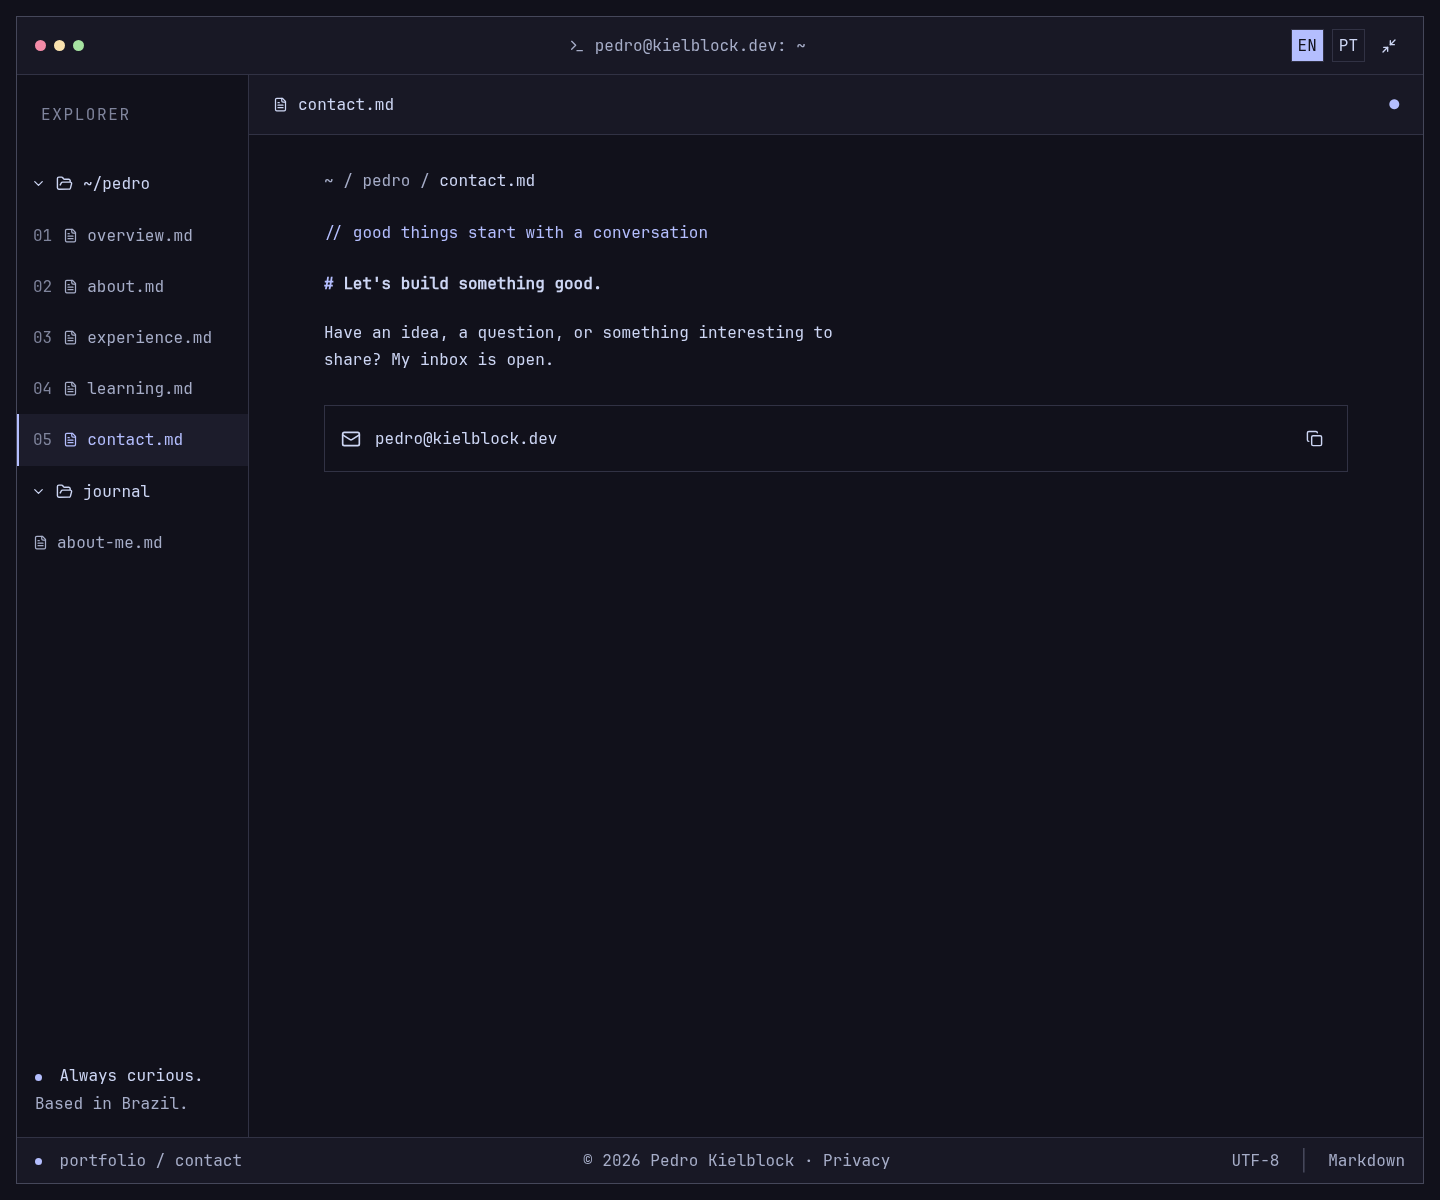
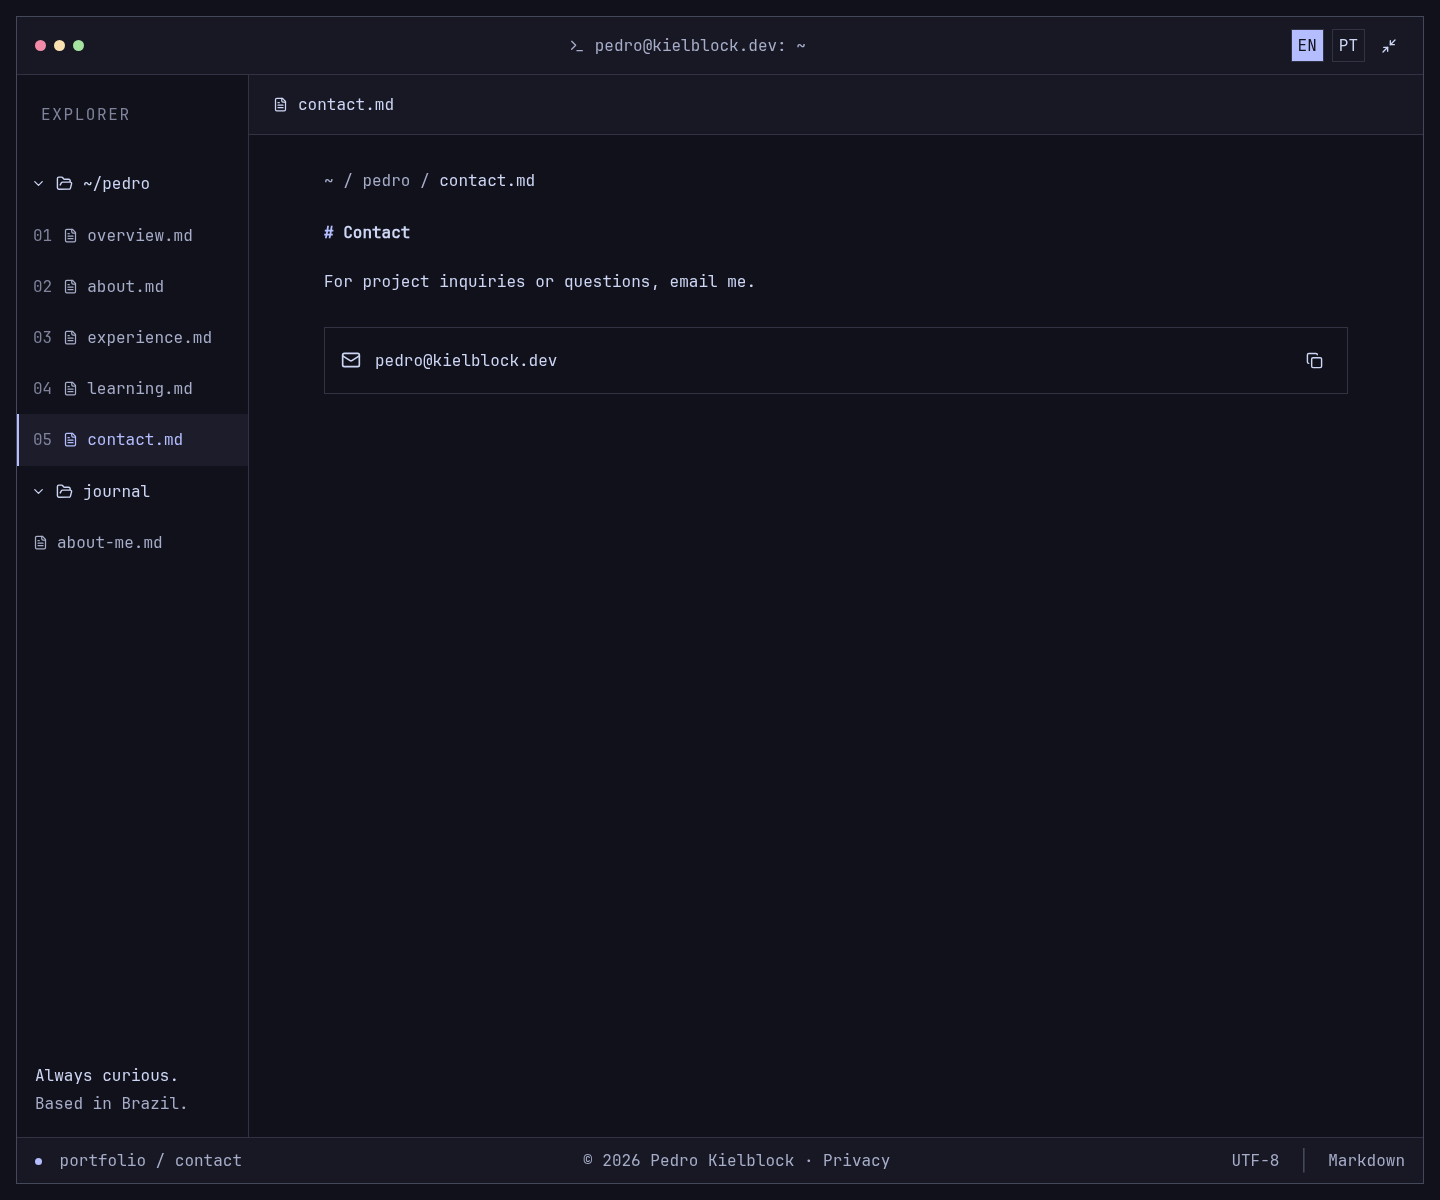
refactor: make portfolio content more personal and direct

diff --git a/src/routes/+page.svelte b/src/routes/+page.svelte
@@ -156,15 +156,12 @@
 					</nav>
 				</details>
 				<div class="explorer-bottom">
-					<span class="status-dot"></span>
 					{$t('Always curious.')}<br /><span class="muted">{$t('Based in Brazil.')}</span>
 				</div>
 			</aside>
 			<div class="document">
 				<div class="document-tab">
-					<span><FileText size={15} /> {filename}</span><span class="accent" aria-hidden="true"
-						>●</span
-					>
+					<span><FileText size={15} /> {filename}</span>
 				</div>
 				<!-- The scroll pane needs keyboard access. -->
 				<!-- svelte-ignore a11y_no_noninteractive_tabindex -->
@@ -206,9 +203,10 @@
 									role="img"
 									aria-label="kielblockdev">{'+-------------+\n| kielblockdev |\n+-------------+'}</pre>
 								<div class="identity">
+									<img src={DATA.avatarUrl} alt="Pedro Kielblock" width="80" height="80" />
 									<div>
-										<p class="eyebrow">{$t('SOFTWARE DEVELOPER')}</p>
 										<h1>Pedro Kielblock</h1>
+										<p>{$t(DATA.description)}</p>
 										<p class="muted">Santo André, São Paulo, BR</p>
 									</div>
 								</div>
@@ -241,7 +239,6 @@
 									{/each}
 								</nav>
 							{:else if section === 'about'}
-								<p class="comment">// {$t('the person behind the code')}</p>
 								<h1><span class="accent">#</span> {$t('A little about me')}</h1>
 								<div class="about-identity">
 									<img src={DATA.avatarUrl} alt="Pedro Kielblock" width="80" height="80" />
@@ -268,7 +265,6 @@
 									>
 								</div>
 							{:else if section === 'experience'}
-								<p class="comment">// {$t("things I've helped build")}</p>
 								<h1><span class="accent">#</span> {$t('Work experience')}</h1>
 								<p class="body-copy muted">{$t('Open a role for the details.')}</p>
 								{#each DATA.work as work, i}<details class="entry" open={i === 0}>
@@ -289,7 +285,6 @@
 										</div>
 									</details>{/each}
 							{:else if section === 'learning'}
-								<p class="comment">// {$t('a work in progress, always')}</p>
 								<h1><span class="accent">#</span> {$t('Keep learning')}</h1>
 								<div class="learning-tabs" role="group" aria-label={$t('Learning categories')}>
 									{#each ['Education', 'Certifications', 'Courses'] as category}
@@ -345,12 +340,9 @@
 												>{/if}
 										</div>{/each}{/if}
 							{:else}
-								<p class="comment">// {$t('good things start with a conversation')}</p>
-								<h1><span class="accent">#</span> {$t("Let's build something good.")}</h1>
+								<h1><span class="accent">#</span> {$t('Contact')}</h1>
 								<p class="body-copy">
-									{$t(
-										'Have an idea, a question, or something interesting to share? My inbox is open.'
-									)}
+									{$t('For project inquiries or questions, email me.')}
 								</p>
 								<div class="email-card">
 									<Mail size={20} /><a href={DATA.contact.social.Mail.url}>{DATA.contact.email}</a

diff --git a/src/lib/data/resume.ts b/src/lib/data/resume.ts
@@ -24,7 +24,7 @@ export const DATA = {
 	locationLink: 'https://www.google.com/maps/place/santo+andre',
 	description: 'Backend-focused Software Developer',
 	summary:
-		"I'm a backend-focused software developer who enjoys building websites and tools that make life easier. Whether it's integrating APIs, making dashboards, or just tinkering with new ideas, I love solving problems and learning along the way. I work comfortably in both English and Portuguese.",
+		'I build backend services and web tools at ReThinkingWorks. My work includes APIs, PostgreSQL databases, integrations, and interfaces in English and Portuguese.',
 	avatarUrl: '/avatar.png',
 	skills: ['Java', 'Spring Boot', 'REST APIs', 'MySQL', 'PostgreSQL'],
 	navbar: [

diff --git a/src/app.css b/src/app.css
@@ -105,13 +105,11 @@ h2 {
 	font-weight: 700;
 }
 .accent,
-.comment,
 .section-heading {
 	color: var(--lavender);
 }
 .muted,
-.breadcrumb,
-.eyebrow {
+.breadcrumb {
 	color: var(--muted-text);
 }
 .skip-link {
@@ -345,9 +343,6 @@ a:hover {
 .breadcrumb span {
 	color: var(--text);
 }
-.comment {
-	margin-bottom: 24px;
-}
 .identity {
 	display: flex;
 	align-items: center;
@@ -383,8 +378,9 @@ a:hover {
 	border-color: var(--lavender);
 }
 
-.eyebrow {
-	margin-bottom: 8px;
+.identity img {
+	object-fit: cover;
+	flex-shrink: 0;
 }
 .identity h1 {
 	margin-bottom: 8px;

diff --git a/README.md b/README.md
@@ -4,7 +4,7 @@ A personal portfolio built with SvelteKit 3, Svelte 5, TypeScript 6, and Tailwin
 
 ## Interface
 
-The portfolio uses a square terminal-style window with Catppuccin Mocha Crust surfaces, Lavender accents, and locally hosted JetBrains Mono at 16px. The expanded terminal fills the viewport height with equal top and bottom margins; no space is reserved for an outer homepage footer. A `kielblockdev` ASCII wordmark sits above the profile. The name heading reads `Pedro Kielblock` without a trailing cursor. Icon buttons link to GitHub, LinkedIn, email, journal, education, certifications, and courses; the learning shortcuts open their category directly. It is a clickable website: file-style navigation opens overview, about, experience, learning, and contact views. Experience entries expand, certifications link to their official exam pages, learning categories switch, the window expands, and the email address can be copied. About groups the GitHub and LinkedIn buttons together; Contact provides email and its copy button. There is no command prompt.
+The portfolio uses a square terminal-style window with Catppuccin Mocha Crust surfaces, Lavender accents, and locally hosted JetBrains Mono at 16px. The expanded terminal fills the viewport height with equal top and bottom margins; no space is reserved for an outer homepage footer. A `kielblockdev` ASCII wordmark sits above the profile. The name heading reads `Pedro Kielblock` without a trailing cursor, alongside the real profile photo and backend role. Section headings lead directly into their content; repeated decorative comments are omitted. Contact uses a direct email invitation. Icon buttons link to GitHub, LinkedIn, email, journal, education, certifications, and courses; the learning shortcuts open their category directly. It is a clickable website: file-style navigation opens overview, about, experience, learning, and contact views. Experience entries expand, certifications link to their official exam pages, learning categories switch, the window expands, and the email address can be copied. About groups the GitHub and LinkedIn buttons together; Contact provides email and its copy button. There is no command prompt.
 
 Navigation uses URL fragments, so sections can be linked directly. The explorer has two collapsible folders: `~/pedro` contains the portfolio sections, and `journal` lists published Markdown entries. Selecting an entry opens it in the document pane; direct links use `/#journal/<slug>`. Both folders support mouse and keyboard controls on desktop and mobile. The outer workspace heading, tagline, and GitHub bar have been removed. The status bar links to the bilingual privacy policy at `/privacy`. The workspace opens expanded by default and fills the desktop viewport with small outer margins. Content is centered in the document pane, with a two-column introduction on wide screens. On mobile, every section link remains visible in a navigation grid, a compact ASCII wordmark fits the screen, and content scrolls naturally with the page. Keyboard navigation, visible focus, and reduced-motion preferences are supported. The journal and privacy routes share the same theme. A matching SVG terminal favicon uses Crust and Lavender. On opening the homepage, a 3.5-second CSS sequence types `open overview.md` (or `open visão-geral.md` in Portuguese), pauses, then reveals the workspace; it does not block interaction or use timers or browser storage. The homepage copyright sits in the bottom status bar and stays hidden with the workspace during the opening sequence. Other routes retain their page footer. Reduced-motion users see the workspace immediately. The homepage browser title is `pedro@kielblockdev`. The introduction covers work at ReThinkingWorks and personal interests in Linux, self-hosting, and small tools.
 
